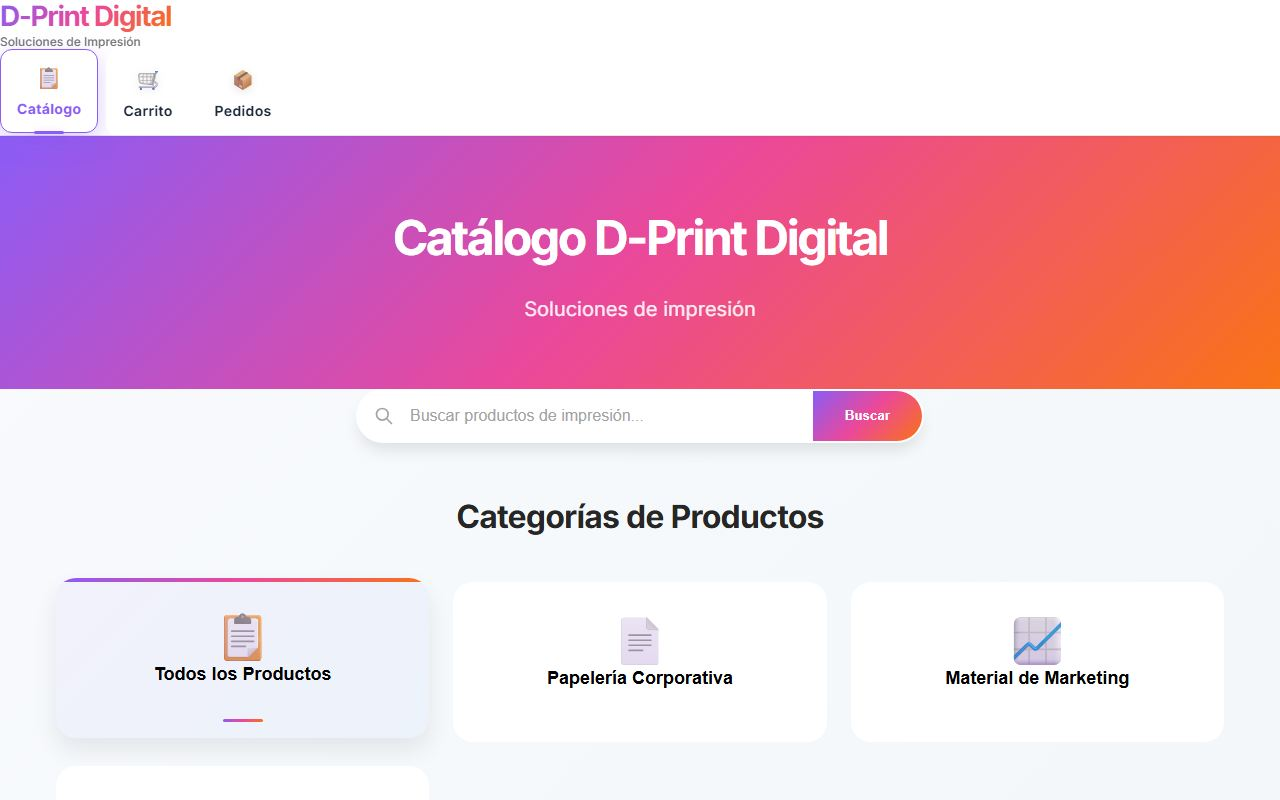
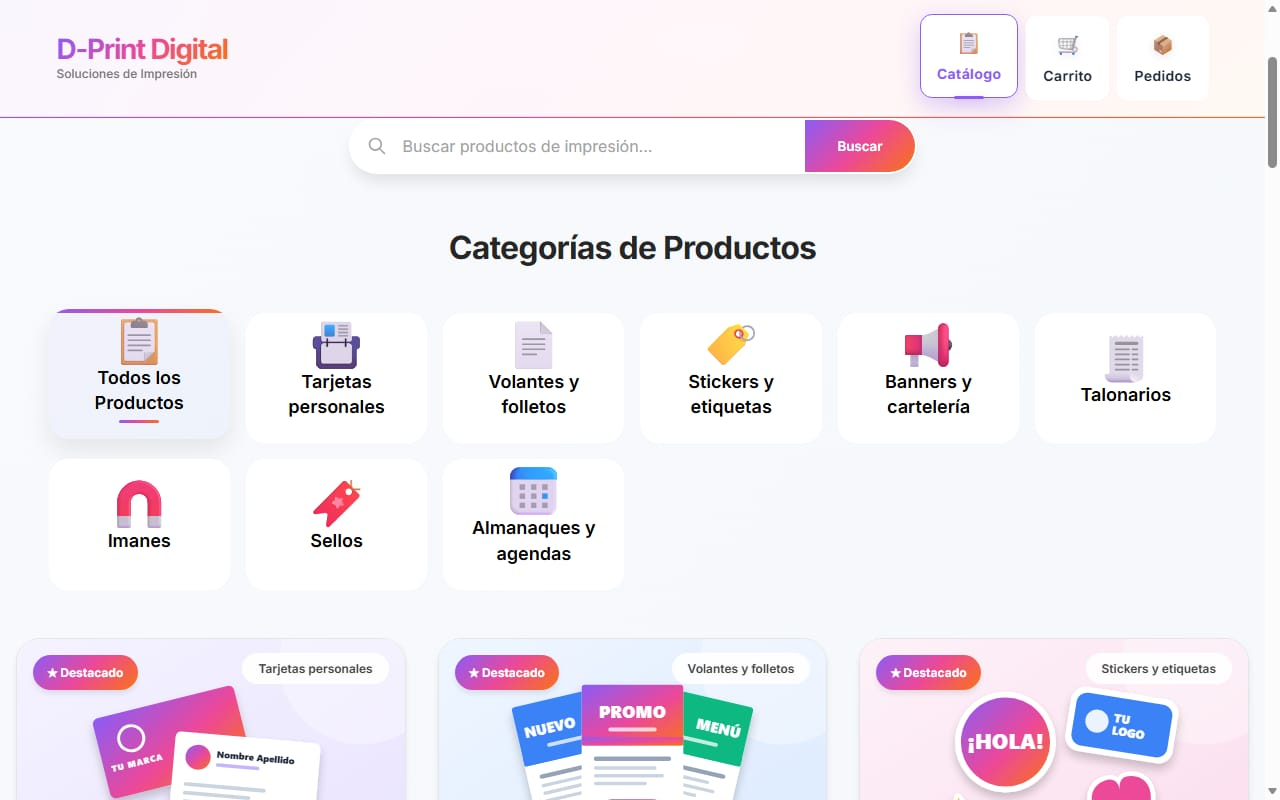
README, .env.example y vista previa para la demo con Prisma y panel

diff --git a/README.md b/README.md
@@ -1,6 +1,8 @@
 # 🎨 D-Print Digital
 
-**Tienda online para gráficas e imprentas: tu catálogo se actualiza desde una planilla de Google Sheets y los pedidos te llegan por WhatsApp.**
+**Tienda online para gráficas e imprentas: el catálogo se carga desde un panel pensado para el celular y los pedidos llegan listos por WhatsApp.**
+
+> Sitio de demostración del portfolio de [David.dev](https://david-dev-ar.vercel.app/#demos). D-Print Digital es una imprenta ficticia: los productos y precios son de ejemplo.
 
 ![Vista previa de D-Print Digital](docs/preview.jpg)
 
@@ -8,30 +10,48 @@
 
 ## ¿Qué problema resuelve?
 
-Manejar precios y stock en una planilla y después tener que pasárselos a mano a la web (o mandar listas de precios por chat) es lento y lleno de errores. Con D-Print Digital editás tu planilla de Google Sheets como siempre y la tienda se actualiza sola: sin panel complicado y sin depender de un programador para cambiar un precio. El cliente arma su pedido y te lo envía listo por WhatsApp.
+Mandar listas de precios por chat o pedirle a un programador cada vez que cambia un precio es lento y lleno de errores. Con D-Print Digital la imprenta carga y edita sus productos desde el celular (con foto sacada en el momento) y la tienda se actualiza al instante. El cliente arma su pedido y lo envía listo por WhatsApp; los trabajos sin precio fijo se marcan "a cotizar".
 
 ## Funcionalidades
 
-- Catálogo de productos cargado desde Google Sheets (nombre, precio, stock, categoría e imagen).
-- Categorías y buscador de productos.
-- Carrito de compras con control de stock para no vender de más.
-- Formulario de pedido que genera un mensaje listo para enviar por WhatsApp.
-- Diseño adaptable a celular y escritorio.
+- Catálogo con categorías, buscador y productos destacados.
+- Precio opcional: los productos sin precio muestran "Consultá precio" y en el pedido van "a cotizar".
+- Carrito y formulario de pedido que arma el mensaje de WhatsApp (el servidor vuelve a leer nombres y precios de la base).
+- Panel `/admin` con usuario y contraseña: alta, edición, borrado, ocultar/mostrar y fotos que se achican en el celular antes de subirse.
+- Diseño adaptable a celular y escritorio, vista previa para compartir en WhatsApp y redes.
 
 ## Tecnologías
 
-Next.js, React, TypeScript, Tailwind CSS, Google Sheets API (googleapis) y desplegado en Vercel.
+Next.js 15 (App Router), React, TypeScript, Prisma + Postgres (Prisma Postgres), Vercel Blob para las fotos y CSS propio. Desplegado en Vercel.
 
 ## Cómo correrlo localmente
 
 ```bash
 npm install
-cp .env.example .env.local   # credenciales de Google, GOOGLE_SHEET_ID y WHATSAPP_NUMBER
+cp .env.example .env         # completá las variables (ver abajo); Prisma y Next.js leen .env
+npx prisma dev               # base Postgres local: copiá la URL TCP en DATABASE_URL y sumale &pgbouncer=true
+npx prisma migrate deploy    # crea las tablas
+npm run db:seed              # carga el catálogo de ejemplo (solo si la base está vacía)
 npm run dev
 ```
 
-Se abre en http://localhost:3000. La hoja de cálculo debe tener las columnas: ID, Nombre, Precio, Stock, Categoría, Imagen, y estar compartida con el email de la cuenta de servicio de Google.
+Se abre en http://localhost:3000 y el panel en http://localhost:3000/admin.
+
+## Variables de entorno
+
+| Variable | Para qué sirve |
+| --- | --- |
+| `DATABASE_URL` | Conexión a Postgres. En Vercel la crea la integración de Prisma Postgres (Storage). |
+| `BLOB_READ_WRITE_TOKEN` | Subir fotos de productos. Vercel la crea al conectar un Blob Store. Sin ella, el panel funciona sin fotos. |
+| `ADMIN_USERNAME` | Usuario del panel `/admin`. |
+| `ADMIN_PASSWORD` | Contraseña del panel. |
+| `AUTH_SECRET` | Clave para firmar la sesión (mínimo 32 caracteres, por ejemplo `openssl rand -base64 48`). |
+| `WHATSAPP_NUMBER` | Opcional. WhatsApp que recibe los pedidos (solo números, con código de país). |
+
+## Cómo se publica
+
+En Vercel, `npm run build` aplica las migraciones (`prisma migrate deploy`), carga el catálogo de ejemplo si la tabla está vacía (`prisma db seed`) y después compila el sitio. `prisma generate` corre solo al instalar dependencias.
 
 ## ¿Querés una web así para tu negocio?
 
-Desarrollo webs y sistemas a medida para comercios y emprendimientos. Escribime o mirá mis otros proyectos en [github.com/DavidSaboredo](https://github.com/DavidSaboredo).
+Desarrollo webs y sistemas a medida para comercios y emprendimientos. Mirá más demos en [david-dev-ar.vercel.app](https://david-dev-ar.vercel.app/#demos) o mis proyectos en [github.com/DavidSaboredo](https://github.com/DavidSaboredo).
